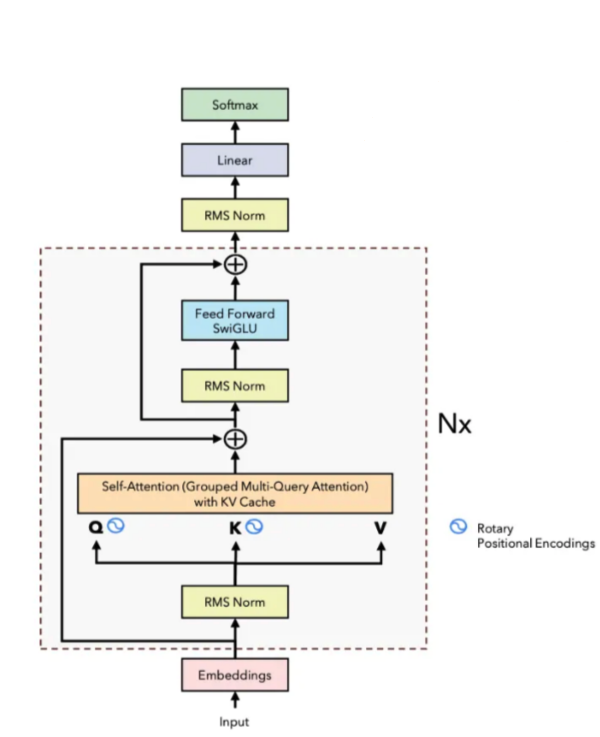
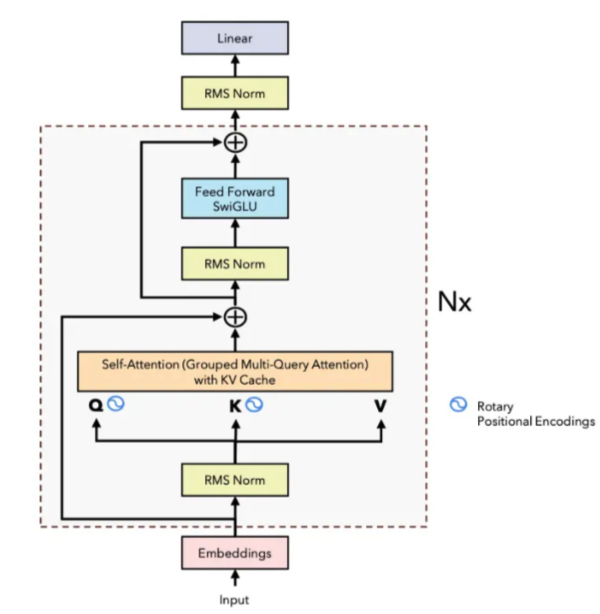
removed softmax of logits from architecture since it is not always used (if sampler.temperature == 0.0)

diff --git a/README.md b/README.md
@@ -10,7 +10,7 @@ This repository holds a Julia module called `Llama2Inference` and was created as
 The module enables the user to generate text by inferencing the large language model [Llama2](https://llama.meta.com/llama2/). The implementation is based on a [C implementation](https://github.com/karpathy/llama2.c/blob/master/run.c) of the inference pass for Llama2 by [Andrej Karpathy](https://github.com/karpathy).
 
 ## Architecture of Llama2 Decoder-Block
-<img src="./assets/llama_architecture.png" width="400">
+<img src="./assets/llama_architecture.png" width="500">
 
 ## Getting Started
 Please follow the instructions given in the [docs](https://yangfelix.github.io/Llama2Inference.jl/dev/getting_started/).
